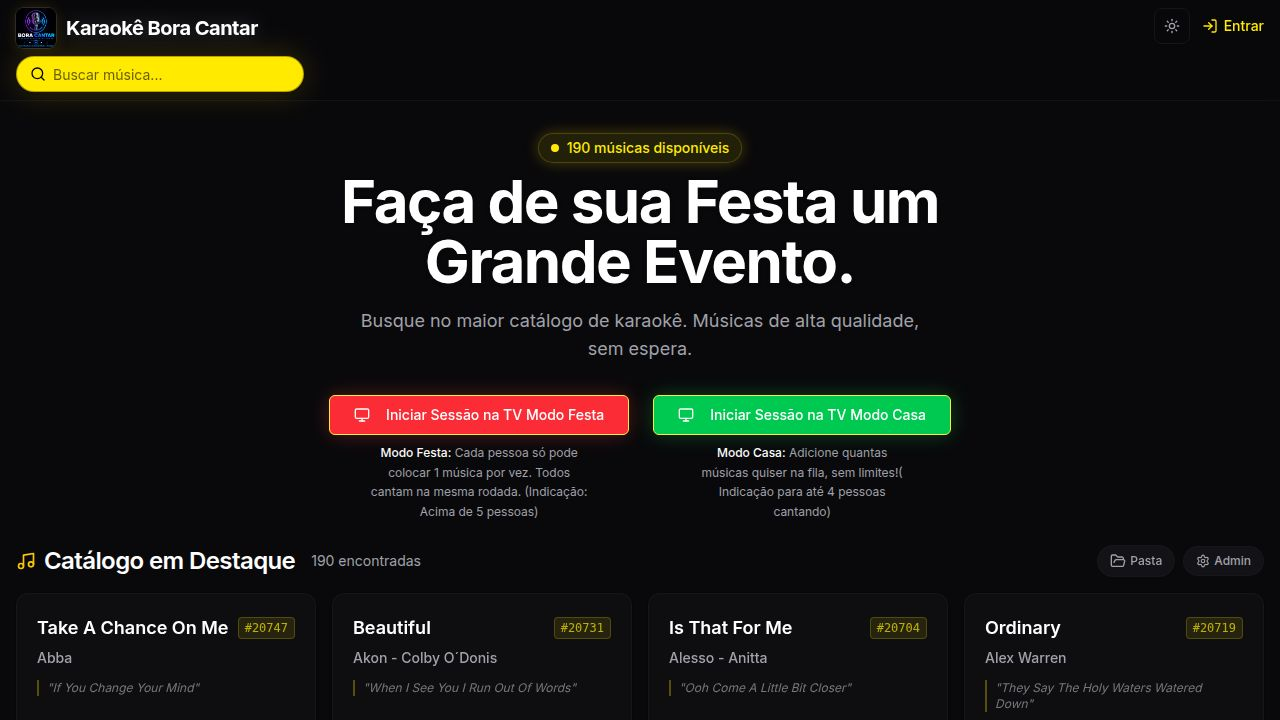
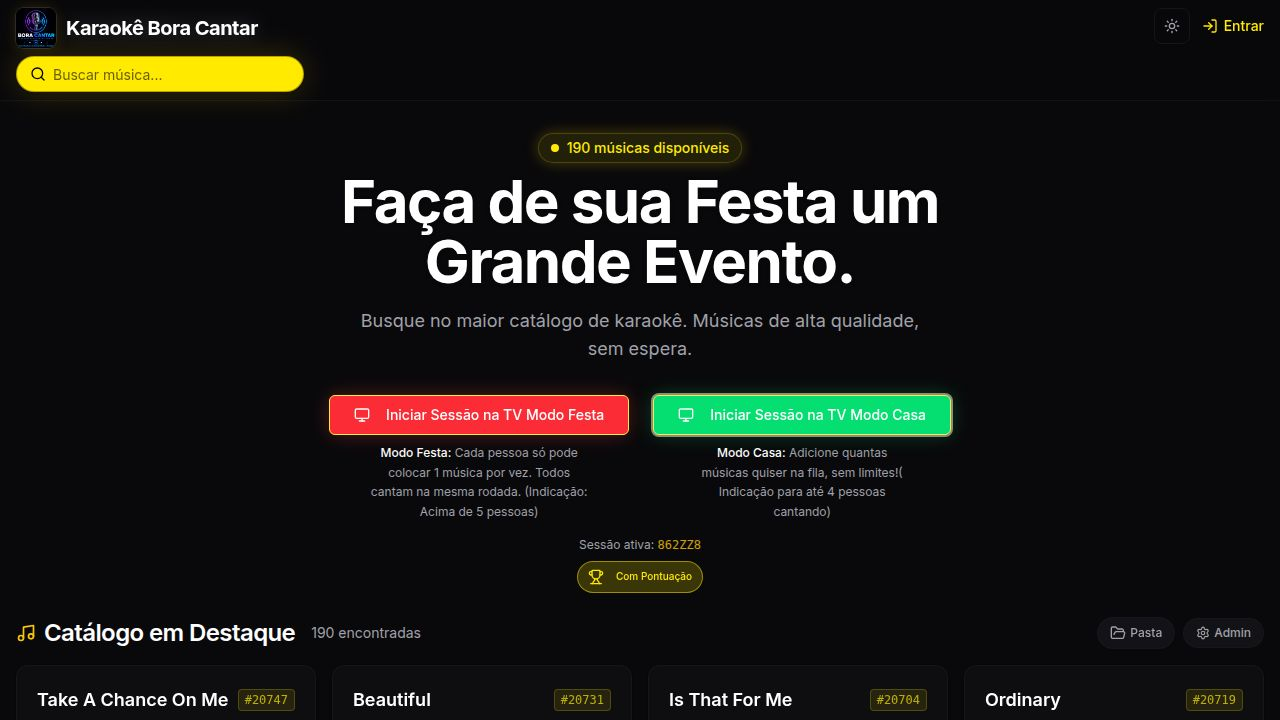
Improve the TV interface with a cleaner and more premium header design
Refactor the TV page header component to simplify layout, reduce clutter, and enhance visual appeal with a more premium, single-row design.

Replit-Commit-Author: Agent
Replit-Commit-Session-Id: e0b9e7b8-9c89-4981-a677-37e2313ad79d
Replit-Commit-Checkpoint-Type: full_checkpoint
Replit-Commit-Event-Id: e481fca9-8d2c-4662-b4cf-5d5728bfe7bf
Replit-Commit-Screenshot-Url: https://storage.googleapis.com/screenshot-production-us-central1/de3e7edc-04e4-467b-baa6-59e45426ee6b/e0b9e7b8-9c89-4981-a677-37e2313ad79d/bkOcBS2
Replit-Helium-Checkpoint-Created: true

diff --git a/artifacts/karaoke/src/pages/tv.tsx b/artifacts/karaoke/src/pages/tv.tsx
@@ -372,161 +372,49 @@ export default function TVPage() {
       {/* Subtle top glow */}
       <div className="absolute top-0 left-1/4 w-1/2 h-64 bg-primary/20 blur-[120px] rounded-full pointer-events-none -translate-y-1/2" />
 
-      {/* Top header bar — left: controls + queue, right: buttons pinned */}
-      <header className="shrink-0 z-20 bg-black/70 backdrop-blur-sm border-b border-white/5">
-        <div className="flex items-start justify-between px-3 py-1.5 gap-2">
-          {/* Left side — controls + queue, wraps freely */}
-          <div className="flex items-center gap-1.5 flex-wrap">
-            {/* Left controls — minimal */}
-            <div className="flex items-center gap-2 shrink-0">
-              <Button
-                variant="ghost"
-                size="sm"
-                className="text-white/80 hover:bg-white/10 rounded-full bg-white/5 border border-white/10 h-7 px-2 text-xs"
-                onClick={() => {
-                  exitSession();
-                  window.location.href = "/";
-                }}
-              >
-                <ArrowLeft className="h-3 w-3 mr-1" />Voltar
-              </Button>
-              {isHost && (
-                <Button
-                  variant="ghost"
-                  size="sm"
-                  className="text-red-400/80 hover:bg-red-500/20 hover:text-red-300 rounded-full bg-red-500/10 border border-red-500/20 h-7 px-2 text-xs"
-                  onClick={() => {
-                    if (confirm("Encerrar a sessão? Todos os convidados serão desconectados.")) {
-                      leaveSession();
-                      window.location.href = "/";
-                    }
-                  }}
-                >
-                  <X className="h-3 w-3 mr-1" />Encerrar
-                </Button>
-              )}
-              <div className="text-[10px] text-muted-foreground uppercase tracking-wider">TV</div>
-              <div className="font-bold text-xs shrink-0">Sessão: <span className="text-primary" style={{ color: '#facc15' }}>{sessionId}</span></div>
-              <div
-                role="button"
-                className="cursor-pointer"
-                style={{
-                  display: 'inline-flex',
-                  alignItems: 'center',
-                  borderRadius: '9999px',
-                  backgroundColor: '#facc15',
-                  border: '1px solid rgba(250,204,21,0.8)',
-                  height: '28px',
-                  padding: '0 8px',
-                  fontSize: '12px',
-                  fontWeight: 500,
-                  gap: '4px',
-                  position: 'relative'
-                }}
-                onClick={() => setShowSearch((s) => !s)}
-                title="Buscar músicas"
-              >
-                <style>{`.tv-search-txt { color: #000000 !important; }`}</style>
-                <div
-                  className="tv-search-txt flex items-center gap-1"
-                  style={{ lineHeight: '28px' }}
-                >
-                  <Search
-                    size={12}
-                    color="#000000"
-                    strokeWidth={2.5}
-                    style={{ flexShrink: 0 }}
-                  />
-                  <span className="tv-search-txt">Buscar</span>
-                </div>
-              </div>
+      {/* Top header — clean single-row, minimal */}
+      <header className="shrink-0 z-20 bg-black/60 backdrop-blur-sm border-b border-white/5">
+        <div className="flex items-center justify-between px-3 py-1.5 gap-3">
+          {/* Left — back + session code + search icon */}
+          <div className="flex items-center gap-2 shrink-0">
+            <button
+              className="text-white/40 hover:text-white/80 transition-colors p-1 rounded-full hover:bg-white/10"
+              onClick={() => {
+                exitSession();
+                window.location.href = "/";
+              }}
+              title="Voltar para home"
+            >
+              <ArrowLeft className="h-4 w-4" />
+            </button>
+            <div className="flex items-center gap-1.5">
+              <span className="text-[10px] text-white/30 uppercase tracking-wider">TV</span>
+              <span className="text-xs font-mono font-semibold text-yellow-400">{sessionId}</span>
             </div>
-
-            {/* Queue — flows right after Sessão, wraps like notebook lines */}
-            {session && session.queue.length > 0 && (
-              <>
-                {/* Now playing badge */}
-                {currentSongId && currentSinger && (
-                  <div className="shrink-0 flex items-center gap-2 bg-yellow-500/15 border border-yellow-400/40 rounded-lg px-3 py-1.5">
-                    <div className="bg-yellow-400/20 rounded-full p-1">
-                      <UserRound className="h-3 w-3 text-yellow-400" />
-                    </div>
-                    <div className="flex-1 min-w-0">
-                      <div className="text-[10px] text-yellow-400 font-bold uppercase tracking-wider leading-none">Agora Cantando</div>
-                      <div className="text-xs font-bold text-white leading-tight">{currentSinger}</div>
-                      <div className="text-[10px] text-white/70 leading-tight">{musica?.musica ?? "Música " + currentSongId}</div>
-                    </div>
-                    {isHost && (
-                      <button
-                        type="button"
-                        className="shrink-0 text-white/30 hover:text-red-400 transition-colors p-0.5"
-                        onClick={(e) => {
-                          e.stopPropagation();
-                          removeFromQueue(currentSongId);
-                        }}
-                        title="Remover música atual"
-                      >
-                        <Trash2 className="h-3 w-3" />
-                      </button>
-                    )}
-                  </div>
-                )}
-
-                {/* Up next items */}
-                {session.queue.map((item, i) => (
-                  <div
-                    key={item.id}
-                    className={`flex items-center gap-1.5 rounded-md px-2.5 py-1 border ${
-                      i === 0 && currentSongId !== item.id
-                        ? "bg-primary/10 border-primary/30"
-                        : "bg-white/5 border-white/10"
-                    }`}
-                  >
-                    <span className="text-[10px] font-mono text-muted-foreground shrink-0">{i + 1}</span>
-                    <div className="min-w-0 flex-1">
-                      <div className="text-xs font-bold text-white leading-tight truncate">{item.singerName}</div>
-                      <div className="text-[10px] text-white/70 leading-tight truncate">{item.musica}</div>
-                    </div>
-                    {/* Play button on first item when nothing is playing */}
-                    {!currentSongId && i === 0 && (
-                      <button
-                        type="button"
-                        className="shrink-0 text-primary hover:text-yellow-300 transition-colors p-0.5"
-                        onClick={(e) => {
-                          e.stopPropagation();
-                          playSong(item.id);
-                        }}
-                        title="Tocar agora"
-                      >
-                        <Play className="h-3 w-3" />
-                      </button>
-                    )}
-                    <button
-                      type="button"
-                      className="shrink-0 text-white/30 hover:text-red-400 transition-colors p-0.5"
-                      onClick={(e) => {
-                        e.stopPropagation();
-                        removeFromQueue(item.id);
-                      }}
-                      title="Remover da fila"
-                    >
-                      <Trash2 className="h-3 w-3" />
-                    </button>
-                  </div>
-                ))}
-              </>
-            )}
-
-            {/* Empty queue hint */}
-            {(!session?.queue || session.queue.length === 0) && (
-              <div className="text-xs text-muted-foreground flex items-center gap-1.5">
-                <ListMusic className="h-3 w-3" />
-                Fila vazia — escaneie o QR Code para adicionar músicas
-              </div>
-            )}
+            <button
+              className="flex items-center justify-center w-6 h-6 rounded-full bg-yellow-400/90 hover:bg-yellow-300 text-black transition-colors"
+              onClick={() => setShowSearch((s) => !s)}
+              title="Buscar músicas"
+            >
+              <Search className="h-3 w-3" strokeWidth={2.5} />
+            </button>
           </div>
 
-          {/* Right side — Timer + Mode + Scoring in single horizontal row */}
+          {/* Center — Now playing (compact) */}
+          {session && currentSongId && currentSinger && (
+            <div className="hidden md:flex items-center gap-2 bg-yellow-500/10 border border-yellow-400/20 rounded-lg px-3 py-1">
+              <div className="bg-yellow-400/20 rounded-full p-1">
+                <UserRound className="h-3 w-3 text-yellow-400" />
+              </div>
+              <div className="min-w-0">
+                <div className="text-[10px] text-yellow-400 font-bold uppercase tracking-wider leading-none">Agora Cantando</div>
+                <div className="text-xs font-bold text-white leading-tight">{currentSinger}</div>
+                <div className="text-[10px] text-white/60 leading-tight">{musica?.musica ?? "Música " + currentSongId}</div>
+              </div>
+            </div>
+          )}
+
+          {/* Right — Mode + Scoring + Timer */}
           <div className="flex items-center gap-1.5 shrink-0">
             {isHost && session && (
               <Button